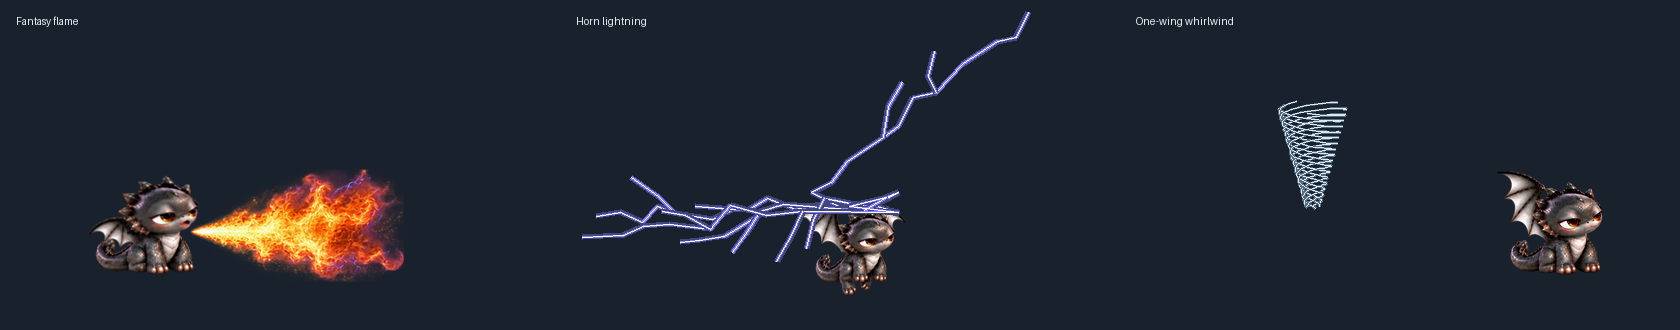
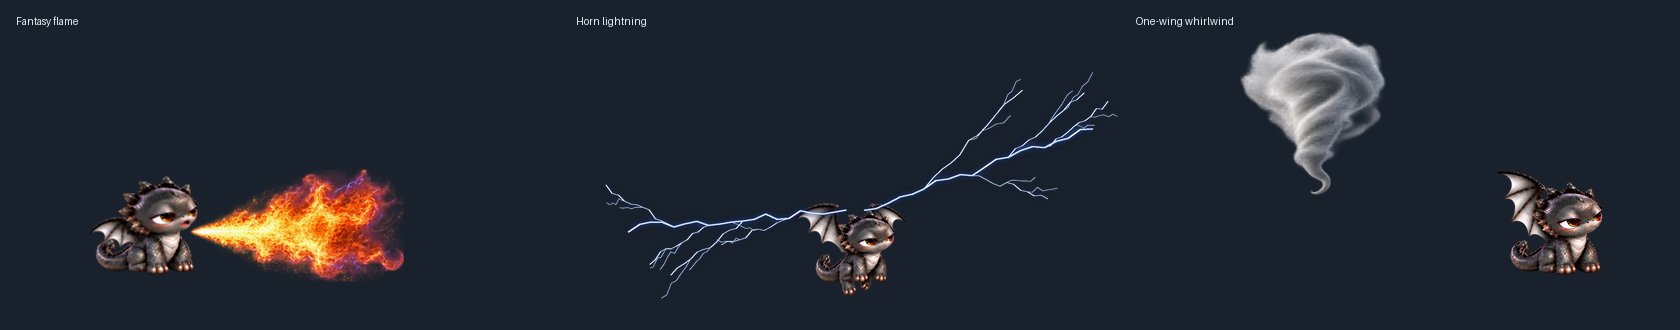
Render volumetric tornadoes and realistic lateral lightning trees

diff --git a/app/dragon_power_view.py b/app/dragon_power_view.py
@@ -7,7 +7,8 @@ import sys
 import tkinter as tk
 
 from app.dragon_lightning import flash_at, STORM_FRAMES
-from app.dragon_power_geometry import FIRE_WIDTH, FIRE_HEIGHT, fire_frame, overlay_rect, bolt_paths, gust_paths
+from app.dragon_power_geometry import FIRE_WIDTH, FIRE_HEIGHT, fire_frame, overlay_rect, gust_transform
+from app.dragon_weather_layout import LIGHTNING_BOUNDS
 from app.window_style import configure_overlay, configure_pet_window
 
 
@@ -21,6 +22,7 @@ class DragonPowerView:
         self.canvas = tk.Canvas(self.window, background=background, highlightthickness=0,borderwidth=0)
         self.canvas.pack()
         self.frames, self.scaled = {}, OrderedDict()
+        self.weather = OrderedDict()
         self.previous_state, self.previous_elapsed = None,0
         self.seed = 0
         self.last_rect = None
@@ -52,6 +54,40 @@ class DragonPowerView:
         if len(self.scaled)>64:
             self.scaled.popitem(last=False)
         return self.scaled[key]
+
+    def asset_path(self,name):
+        base=Path(getattr(sys,"_MEIPASS",Path(__file__).resolve().parents[1]))
+        platform="windows" if sys.platform=="win32" else "macos"
+        return str(base/f"assets/runtime/dragon-{platform}/{name}.png")
+
+    def vortex(self,index,facing,scale=1):
+        side="left" if facing<0 else "right"
+        key=f"vortex-{side}"
+        if key not in self.frames:
+            atlas=tk.PhotoImage(master=self.window,file=self.asset_path(key))
+            frames=[]
+            for i in range(32):
+                image=tk.PhotoImage(master=self.window,width=180,height=200)
+                x,y=i%4*180,i//4*200
+                self.window.tk.call(str(image),"copy",str(atlas),"-from",x,y,x+180,y+200,"-to",0,0)
+                frames.append(image)
+            self.frames[key]=frames
+        original=self.frames[key][index]
+        if scale==1:return original
+        cache_key=key,index,scale
+        if cache_key not in self.scaled:self.scaled[cache_key]=original.subsample(scale,scale)
+        self.scaled.move_to_end(cache_key)
+        if len(self.scaled)>64:self.scaled.popitem(last=False)
+        return self.scaled[cache_key]
+
+    def lightning(self,index,scale):
+        key=index,scale
+        if key not in self.weather:
+            image=tk.PhotoImage(master=self.window,file=self.asset_path(f"lightning-{index:02d}"))
+            self.weather[key]=image.subsample(scale,scale) if scale>1 else image
+        self.weather.move_to_end(key)
+        if len(self.weather)>8:self.weather.popitem(last=False)
+        return self.weather[key]
 
     def draw(self,state,elapsed,duration,mouth,horns,facing,bounds,topmost):
         if state not in {"fire","storm_hover","wing_gust"}:
@@ -92,23 +128,26 @@ class DragonPowerView:
             if p<.15 or p>.94:
                 self.window.withdraw(); return
             envelope = min(1,(p-.15)/.15,(.94-p)/.2)
-            for path in gust_paths((mouth[0]-x,mouth[1]-y),(w,h),-facing,p,elapsed):
-                coords = [v for point in path for v in point]
-                c.create_line(*coords,fill="#576c81",width=3,smooth=True)
-                c.create_line(*coords,fill="#daeaf1",width=1,smooth=True)
+            cx,cy = gust_transform((mouth[0]-x,mouth[1]-y),(w,h),-facing,p)
+            t=(p-.15)/.79
+            index=min(7,int(t/.2*8)) if t<.2 else 8+int(elapsed*12)%16 if t<.8 else 24+min(7,int((t-.8)/.2*8))
+            scale=max(1,math.ceil(200/max(8,cy-4)),math.ceil(180/max(8,2*min(cx,w-cx)-4)))
+            image=self.vortex(index,-facing,scale)
+            c.create_image(cx,cy,image=image,anchor="s")
             self.window.wm_attributes("-alpha",max(0,min(1,envelope)))
         else:
             strike,strength,growth = flash_at(round(elapsed/max(duration,.001)*(STORM_FRAMES-1)))
             if not strength:
                 self.window.withdraw(); return
-            local = [(px-x,py-y) for px,py in horns]
-            paths = bolt_paths(local,(w,h),self.seed,strike)
-            for path in paths:
-                path = path[:max(2,round(len(path)*growth))]
-                coords = [v for point in path for v in point]
-                c.create_line(*coords,fill="#3e4977",width=6)
-                c.create_line(*coords,fill="#8b7dff",width=3)
-                c.create_line(*coords,fill="#fcfaff",width=1)
+            index=(self.seed+strike*7919)%16
+            mx,my=origin[0]-x,origin[1]-y
+            l,t,r,b=LIGHTNING_BOUNDS[index]
+            scale=max(1,math.ceil((280-l)/max(8,mx-2)),
+                      math.ceil((r-280)/max(8,w-mx-2)),
+                      math.ceil((380-t)/max(8,my-2)),
+                      math.ceil((b-380)/max(8,h-my-2)))
+            image=self.lightning(index,scale)
+            c.create_image(mx-280/scale,my-380/scale,image=image,anchor="nw")
             self.window.wm_attributes("-alpha",strength)
         if state == "fire":
             self.window.wm_attributes("-alpha",1)

diff --git a/scripts/build_dragon_weather.py b/scripts/build_dragon_weather.py
@@ -1,0 +1,93 @@
+"""Bake volumetric cloud animation and antialiased branching lightning."""
+from pathlib import Path
+import sys
+import numpy as np
+from PIL import Image,ImageDraw,ImageFilter,ImageOps
+
+ROOT=Path(__file__).resolve().parents[1]
+sys.path.insert(0,str(ROOT))
+from app.dragon_power_geometry import bolt_paths
+from build_pet_atlases import premultiplied
+
+
+def platform_image(im,platform):
+    if platform=='windows':
+        im=im.copy()
+        im.putalpha(im.getchannel('A').point(lambda a:255 if a>=100 else 0))
+    return im
+
+
+def lightning_image(index):
+    scale=3
+    size=(560*scale,480*scale)
+    glow=Image.new('RGBA',size)
+    paths=bolt_paths([(271,380),(289,380)],(560,480),1000+index,0)
+    for image,color,multiplier in ((glow,(70,110,255,155),2.5),):
+        draw=ImageDraw.Draw(image)
+        for path in paths:
+            width=2.1 if len(path)>=20 else 1.1 if len(path)>=12 else .55
+            draw.line([(round(x*scale),round(y*scale)) for x,y in path],fill=color,width=max(1,round(width*multiplier*scale)))
+    glow=glow.filter(ImageFilter.GaussianBlur(3.5*scale))
+    draw=ImageDraw.Draw(glow)
+    for path in paths:
+        width=2.1 if len(path)>=20 else 1.1 if len(path)>=12 else .55
+        coords=[(round(x*scale),round(y*scale)) for x,y in path]
+        draw.line(coords,fill=(130,175,255,240),width=max(1,round(width*scale)))
+        draw.line(coords,fill=(250,252,255,255),width=max(1,round(width*.48*scale)))
+    return glow.resize((560,480),Image.Resampling.LANCZOS)
+
+
+def build():
+    source=Image.open(ROOT/'assets/source/dragon-vortex.png').convert('RGBA')
+    keys=[]
+    for i in range(8):
+        x,y=i%4*source.width/4,i//4*source.height/2
+        key=source.crop((round(x),round(y),round(x+source.width/4),round(y+source.height/2)))
+        pixels=np.asarray(key).copy()
+        bad=(pixels[:,:,2]>pixels[:,:,0]*1.4)&(pixels[:,:,2]>pixels[:,:,1]*1.25)
+        pixels[bad]=0
+        key=Image.fromarray(pixels)
+        box=key.getchannel('A').point(lambda a:255 if a>24 else 0).getbbox()
+        if not box:raise ValueError(f'Missing vortex {i}')
+        keys.append(key.crop(box))
+    scale=min(156/max(k.width for k in keys),176/max(k.height for k in keys))
+    normalized=[]
+    for key in keys:
+        key=key.resize((round(key.width*scale),round(key.height*scale)),Image.Resampling.LANCZOS)
+        im=Image.new('RGBA',(180,200));im.alpha_composite(key,((180-key.width)//2,188-key.height))
+        normalized.append(im)
+    loop=[]
+    for i in range(8):
+        loop.append(normalized[i])
+        pixels=(premultiplied(normalized[i])+premultiplied(normalized[(i+1)%8]))*.5
+        alpha=pixels[:,:,3:4]
+        pixels[:,:,:3]=np.divide(pixels[:,:,:3],alpha,out=np.zeros_like(pixels[:,:,:3]),where=alpha>.001)
+        loop.append(Image.fromarray(np.uint8(np.clip(pixels*255,0,255))))
+    frames=[]
+    for i in range(32):
+        key=loop[i%16]
+        growth=(i+1)/8 if i<8 else 1 if i<24 else (32-i)/8
+        if growth<1:
+            key=key.resize((round(180*growth),round(200*growth)),Image.Resampling.LANCZOS)
+            frame=Image.new('RGBA',(180,200));frame.alpha_composite(key,((180-key.width)//2,200-key.height));key=frame
+        frames.append(key)
+    bounds=[]
+    for i in range(16):
+        bolt=lightning_image(i)
+        bounds.append(bolt.getchannel('A').point(lambda a:255 if a>8 else 0).getbbox())
+        for platform in ('macos','windows'):
+            platform_image(bolt,platform).save(ROOT/f'assets/runtime/dragon-{platform}/lightning-{i:02d}.png',optimize=True)
+    for platform in ('macos','windows'):
+        for side in ('right','left'):
+            atlas=Image.new('RGBA',(180*4,200*8))
+            for i,frame in enumerate(frames):
+                frame=ImageOps.mirror(frame) if side=='left' else frame
+                atlas.alpha_composite(platform_image(frame,platform),(i%4*180,i//4*200))
+            atlas.save(ROOT/f'assets/runtime/dragon-{platform}/vortex-{side}.png',optimize=True)
+    frames[15].save(ROOT/'assets/readme/dragon-vortex.png')
+    lightning_image(4).save(ROOT/'assets/readme/dragon-lightning.png')
+    (ROOT/'app/dragon_weather_layout.py').write_text(f'"""Baked lightning alpha bounds for safe placement near desktop edges."""\nLIGHTNING_BOUNDS={tuple(bounds)!r}\n',encoding='utf-8')
+    print('Weather: 32 vortex frames and 16 lateral branching lightning patterns per platform')
+
+
+if __name__=='__main__':build()

diff --git a/app/dragon_power_geometry.py b/app/dragon_power_geometry.py
@@ -27,60 +27,38 @@ def overlay_rect(origin, bounds):
 
 
 def bolt_paths(origins, size, seed, strike):
-    """Random long branches in all quadrants, stable during one short strike."""
-    w,h = size
-    rng = random.Random(seed+strike*7919)
-    paths = []
-    center = ((origins[0][0]+origins[1][0])/2, (origins[0][1]+origins[1][1])/2)
+    """Lateral tree-shaped discharge: outward trunk, forks and fine twigs."""
+    w,h=size
+    rng=random.Random(seed+strike*7919)
+    paths=[]
+    def clamp(p): return (max(12,min(w-12,p[0])),max(12,min(h-12,p[1])))
+    def branch(start,sign,length,slope,depth):
+        points=[clamp(start)]
+        count=20 if depth==0 else 12 if depth==1 else 7
+        for j in range(1,count):
+            t=j/(count-1)
+            # Progress always outward; jitter is transverse, never backwards.
+            x=start[0]+sign*length*t
+            y=start[1]+slope*length*t+rng.uniform(-1,1)*(5 if depth==0 else 3)
+            points.append(clamp((x,y)))
+        paths.append(points)
+        if depth<2:
+            for fraction in ((.25,.45,.65,.8) if depth==0 else (.42,.72)):
+                at=points[round(fraction*(count-1))]
+                branch(at,sign,length*rng.uniform(.25,.43),
+                       slope+rng.choice((-1,1))*rng.uniform(.3,.7),depth+1)
     for side,origin in enumerate(origins):
-        for _ in range(2):
-            # Start outward to keep downward strikes from crossing the face.
-            sign = -1 if side == 0 else 1
-            first = (origin[0]+sign*rng.uniform(22,38),origin[1]-rng.uniform(5,20))
-            angle = rng.uniform(-math.pi,math.pi)
-            length = rng.uniform(170,280)
-            target = (center[0]+math.cos(angle)*length,center[1]+math.sin(angle)*length)
-            def clamp(point):
-                return (max(12,min(w-12,point[0])),max(12,min(h-12,point[1])))
-            target = clamp(target)
-            path = [clamp(origin),clamp(first)]
-            for j in range(1,11):
-                t = j/10
-                point = (first[0]*(1-t)+target[0]*t+rng.uniform(-12,12),
-                         first[1]*(1-t)+target[1]*t+rng.uniform(-12,12))
-                if point[1] > center[1] and abs(point[0]-center[0]) < 40:
-                    point = (center[0]+sign*43,point[1])
-                path.append(clamp(point))
-            paths.append(path)
-            for j in (4,7):
-                branch_angle = angle+rng.uniform(-1.1,1.1)
-                p = path[j]
-                end = clamp((p[0]+math.cos(branch_angle)*rng.uniform(30,65),
-                             p[1]+math.sin(branch_angle)*rng.uniform(30,65)))
-                paths.append([p,clamp(((p[0]+end[0])/2+rng.uniform(-7,7),
-                                      (p[1]+end[1])/2+rng.uniform(-7,7))),end])
+        sign=-1 if side==0 else 1
+        branch(origin,sign,rng.uniform(195,250),rng.uniform(-.5,.1),0)
     return paths
 
 
-def gust_paths(origin,size,direction,progress,elapsed):
-    """A drifting rotating funnel emitted on the active wing's side."""
-    w,h = size
-    direction = 1 if direction>=0 else -1
-    available = w-origin[0]-45 if direction>0 else origin[0]-45
-    travel = max(0,min(235,available))
-    t = max(0,min(1,(progress-.15)/.79))
-    growth = min(1,t/.23)
-    cx = origin[0]+direction*(12+travel*t)
-    cy = max(92,min(h-28,origin[1]-35*t))
-    paths = []
-    for strand in range(5):
-        path = []
-        for j in range(91):
-            v = j/90
-            angle = v*math.tau*3.5+elapsed*5+strand*math.tau/5
-            radius = (7+28*v)*growth
-            px = cx+math.cos(angle)*radius
-            py = cy-v*100*growth+math.sin(angle)*radius*.18
-            path.append((max(6,min(w-6,px)),max(6,min(h-6,py))))
-        paths.append(path)
-    return paths
+def gust_transform(origin,size,direction,progress):
+    """Cloud funnel tip moves away from the flapping wing without clipping."""
+    w,h=size
+    direction=1 if direction>=0 else -1
+    available=w-origin[0]-90 if direction>0 else origin[0]-90
+    travel=max(0,min(235,available))
+    t=max(0,min(1,(progress-.15)/.79))
+    cx=origin[0]+direction*(12+travel*t)
+    return max(12,min(w-12,cx)),max(12,min(h-12,origin[1]-35*t))

diff --git a/tests/test_dragon_powers.py b/tests/test_dragon_powers.py
@@ -6,7 +6,7 @@ from pathlib import Path
 from PIL import Image, ImageOps
 from app.dragon_animation import DragonBehavior, DRAGON_ACTIVITIES
 from app.behavior_art import EXTRA_CLIPS
-from app.dragon_power_geometry import fire_frame, overlay_rect, bolt_paths, gust_paths
+from app.dragon_power_geometry import fire_frame, overlay_rect, bolt_paths, gust_transform
 
 
 class DragonPowerTests(unittest.TestCase):
@@ -46,12 +46,11 @@ class DragonPowerTests(unittest.TestCase):
 
     def test_whirlwind_drifts_towards_the_flapping_wing_and_freezes(self):
         for sign in (-1,1):
-            early=gust_paths((280,380),(560,480),sign,.3,2)
-            late=gust_paths((280,380),(560,480),sign,.8,6)
-            def center(paths): return sum(x for p in paths for x,y in p)/sum(map(len,paths))
-            self.assertGreater(sign*(center(late)-center(early)),100)
-            self.assertEqual(late,gust_paths((280,380),(560,480),sign,.8,6))
-            self.assertTrue(all(6<=x<=554 and 6<=y<=474 for p in late for x,y in p))
+            early=gust_transform((280,380),(560,480),sign,.3)
+            late=gust_transform((280,380),(560,480),sign,.8)
+            self.assertGreater(sign*(late[0]-early[0]),100)
+            self.assertEqual(late,gust_transform((280,380),(560,480),sign,.8))
+            self.assertTrue(90<=late[0]<=470 and 210<=late[1]<=468)
 
     def test_interrupted_gesture_starts_bridge_at_its_current_pose(self):
         pet=DragonBehavior(random.Random(8))
@@ -82,3 +81,32 @@ class DragonPowerTests(unittest.TestCase):
         clip=EXTRA_CLIPS['dragon']['wing_gust']
         for name in (clip[0],clip[-1]):
             self.assertEqual(frame(atlas,poses.index(name)).tobytes(),idle)
+
+    def test_weather_images_have_complete_alpha_and_no_windows_magenta_matte(self):
+        root=Path(__file__).resolve().parents[1]/'assets/runtime'
+        for platform in ('macos','windows'):
+            directory=root/f'dragon-{platform}'
+            for i in range(16):
+                image=Image.open(directory/f'lightning-{i:02d}.png').convert('RGBA')
+                self.assertEqual(image.size,(560,480))
+                bounds=image.getchannel('A').point(lambda a:255 if a>32 else 0).getbbox()
+                self.assertGreaterEqual(min(bounds[0],bounds[1],560-bounds[2],480-bounds[3]),5)
+                if platform=='windows':self.assertLessEqual(set(image.getchannel('A').tobytes()),{0,255})
+            a,b=[Image.open(directory/f'vortex-{side}.png').convert('RGBA') for side in ('right','left')]
+            self.assertEqual(a.size,(720,1600))
+            for i in range(32):
+                x,y=i%4*180,i//4*200
+                right,left=[im.crop((x,y,x+180,y+200)) for im in (a,b)]
+                self.assertEqual(ImageOps.mirror(right).tobytes(),left.tobytes())
+                bounds=right.getchannel('A').point(lambda a:255 if a>32 else 0).getbbox()
+                self.assertIsNotNone(bounds)
+                self.assertGreaterEqual(min(bounds[0],bounds[1],180-bounds[2],200-bounds[3]),1)
+            if platform=='windows':self.assertLessEqual(set(a.getchannel('A').tobytes()),{0,255})
+
+    def test_lightning_tree_forks_only_outwards_from_each_horn(self):
+        paths=bolt_paths([(271,380),(289,380)],(560,480),3,2)
+        self.assertEqual(len(paths),26)
+        for side,tree in enumerate((paths[:13],paths[13:])):
+            sign=-1 if side==0 else 1
+            for path in tree:
+                self.assertTrue(all(sign*(b[0]-a[0])>=0 for a,b in zip(path,path[1:])))

diff --git a/scripts/build_dragon_power_preview.py b/scripts/build_dragon_power_preview.py
@@ -7,7 +7,7 @@ ROOT = Path(__file__).resolve().parents[1]
 sys.path.insert(0,str(ROOT))
 from app.pet_sprites import POSES
 from app.behavior_art import EXTRA_CLIPS
-from app.dragon_power_geometry import bolt_paths,gust_paths
+from app.dragon_power_geometry import gust_transform
 from app.dragon_effect_layout import MOUTH_POSITIONS,HORN_POSITIONS
 
 
@@ -27,15 +27,13 @@ def build():
     mx,my=MOUTH_POSITIONS[index]
     panels[0].alpha_composite(flame,(80+mx-4,130+my-80))
     panels[1].alpha_composite(body(EXTRA_CLIPS['dragon']['storm_hover'][70]),(210,160))
-    draw=ImageDraw.Draw(panels[1])
-    for path in bolt_paths([(210+x,160+y) for x,y in HORN_POSITIONS[70]],(560,330),30,4):
-        for color,width in (('#3e4977',6),('#8b7dff',3),('#fcfaff',1)):
-            draw.line(path,fill=color,width=width)
+    lightning=Image.open(ROOT/'assets/readme/dragon-lightning.png').convert('RGBA')
+    hx,hy=HORN_POSITIONS[70][0]
+    panels[1].alpha_composite(lightning,(210+hx-271,160+hy-380))
     panels[2].alpha_composite(body(EXTRA_CLIPS['dragon']['wing_gust'][30]),(350,130))
-    draw=ImageDraw.Draw(panels[2])
-    for path in gust_paths((392,235),(560,330),-1,.78,6):
-        draw.line(path,fill='#576c81',width=3)
-        draw.line(path,fill='#daeaf1',width=1)
+    cx,cy=gust_transform((392,235),(560,330),-1,.78)
+    vortex=Image.open(ROOT/'assets/readme/dragon-vortex.png').convert('RGBA')
+    panels[2].alpha_composite(vortex,(round(cx-90),round(cy-200)))
     output=Image.new('RGB',(1680,330))
     for i,im in enumerate(panels):output.paste(im,(i*560,0))
     output.save(ROOT/'assets/readme/dragon-powers.png',optimize=True)

diff --git a/app/dragon_weather_layout.py b/app/dragon_weather_layout.py
@@ -1,0 +1,2 @@
+"""Baked lightning alpha bounds for safe placement near desktop edges."""
+LIGHTNING_BOUNDS=((6, 302, 535, 410), (5, 209, 553, 471), (7, 238, 514, 399), (7, 309, 545, 473), (27, 240, 543, 471), (8, 275, 548, 453), (33, 249, 519, 388), (8, 266, 513, 431), (7, 248, 534, 453), (48, 298, 540, 417), (14, 246, 529, 432), (38, 246, 554, 386), (9, 223, 553, 388), (5, 295, 527, 411), (7, 253, 538, 394), (36, 272, 535, 417))

diff --git a/docs/behavior-design.md b/docs/behavior-design.md
@@ -71,4 +71,4 @@ history, transition routes, gentle movement, pause behavior, all sprite bounds,
 both facings, and the dragon's smoke/flame padding.
 
 
-Dragon powers use a separate transparent native window: 32 large flame drawings, randomly branched lightning stable during each exposure, and a procedural drifting vortex on the flapping wing side. All motion uses the pauseable activity clock. Flame lasts 12–16 seconds including ignition and fade; smoke/fire cooldowns are 8/10 seconds after completion. Flight preserves the higher altitude range (22–42% of the display) and 25–45 second cruise. One-wing gust adds 60 body frames and a 7–9 second activity. Interrupted upright gestures finish their remaining painted exit before starting the requested pose. Body clip endpoints share the canonical neutral pose.
+Dragon powers use a separate transparent native window: 32 large flame drawings, 16 rasterized lateral lightning trees stable during each exposure, and a volumetric drifting cloud vortex on the flapping wing side. All motion uses the pauseable activity clock. Flame lasts 12–16 seconds including ignition and fade; smoke/fire cooldowns are 8/10 seconds after completion. Flight preserves the higher altitude range (22–42% of the display) and 25–45 second cruise. One-wing gust adds 60 body frames and a 7–9 second activity. Interrupted upright gestures finish their remaining painted exit before starting the requested pose. Body clip endpoints share the canonical neutral pose.

diff --git a/README.md b/README.md
@@ -4,7 +4,7 @@
 
 A rabbit, a puppy, a bald eagle, and a fluffy tabby kitten live on your desktop. Each has 195 animation frames, long walks and naps, and its own grooming, sniffing, stretching or playful gestures. Ground pets occasionally run; the eagle flies across and up the screen before landing. Seven other characters are available from the menu.
 
-The black dragon has 545 body frames: sleepy gestures, warning displays, roars, large fantasy flame breath, smoke rings, rapid horn lightning, and a seated one-wing whirlwind. Fire and smoke occur more often, with cooldowns to vary the routine. Large effects use a separate transparent layer so the face stays intact. The dragon can soar high across the screen for 25–45 seconds.
+The black dragon has 545 body frames: sleepy gestures, warning displays, roars, large fantasy flame breath, smoke rings, rapid tree-like lightning branching sideways from its horns, and a seated one-wing whirlwind made of volumetric cloud wisps. Fire and smoke occur more often, with cooldowns to vary the routine. Large effects use a separate transparent layer so the face stays intact. The dragon can soar high across the screen for 25–45 seconds.
 
 Named behaviors, recent activity memory, and cooldowns vary the routine. Painted waking, stretching, and turning clips connect rest and travel. Pause and dragging freeze the behavior clock.
 

diff --git a/assets/source/README.md b/assets/source/README.md
@@ -31,3 +31,5 @@ python scripts/build_dragon_effects.py
 Dragon atlas saves also produce `assets/runtime/dragon-{windows,macos}/` pages. Ship those platform-specific pages in apps; the full dragon atlas is only a reference. Each page has at most 40 frames to keep Tk startup fast.
 
 `dragon-wing-gust.png` contains five one-wing seated keyframes, expanded into 60 poses with neutral endpoints. `dragon-wing-gust-prompt.txt` records the built-in generation prompt. `dragon-fantasy-fire.png` supplies 16 large flame textures, baked into 32 ignition/flicker/fade drawings per platform and direction; its prompt is recorded alongside it. `python scripts/build_dragon_power_preview.py` refreshes the static README examples.
+
+`dragon-vortex.png` contains eight looping volumetric smoke keyframes from the built-in image tool. Its prompt is in `dragon-vortex-prompt.txt`. Run `python scripts/build_dragon_weather.py` to bake 32 vortex frames and 16 antialiased lightning trees per platform. Lightning trunks spread outwards from the horns, recursively fork into thinner twigs, and use a blue bloom around the white plasma core. Weather images load lazily, adapt to desktop edges, and use the activity clock.
